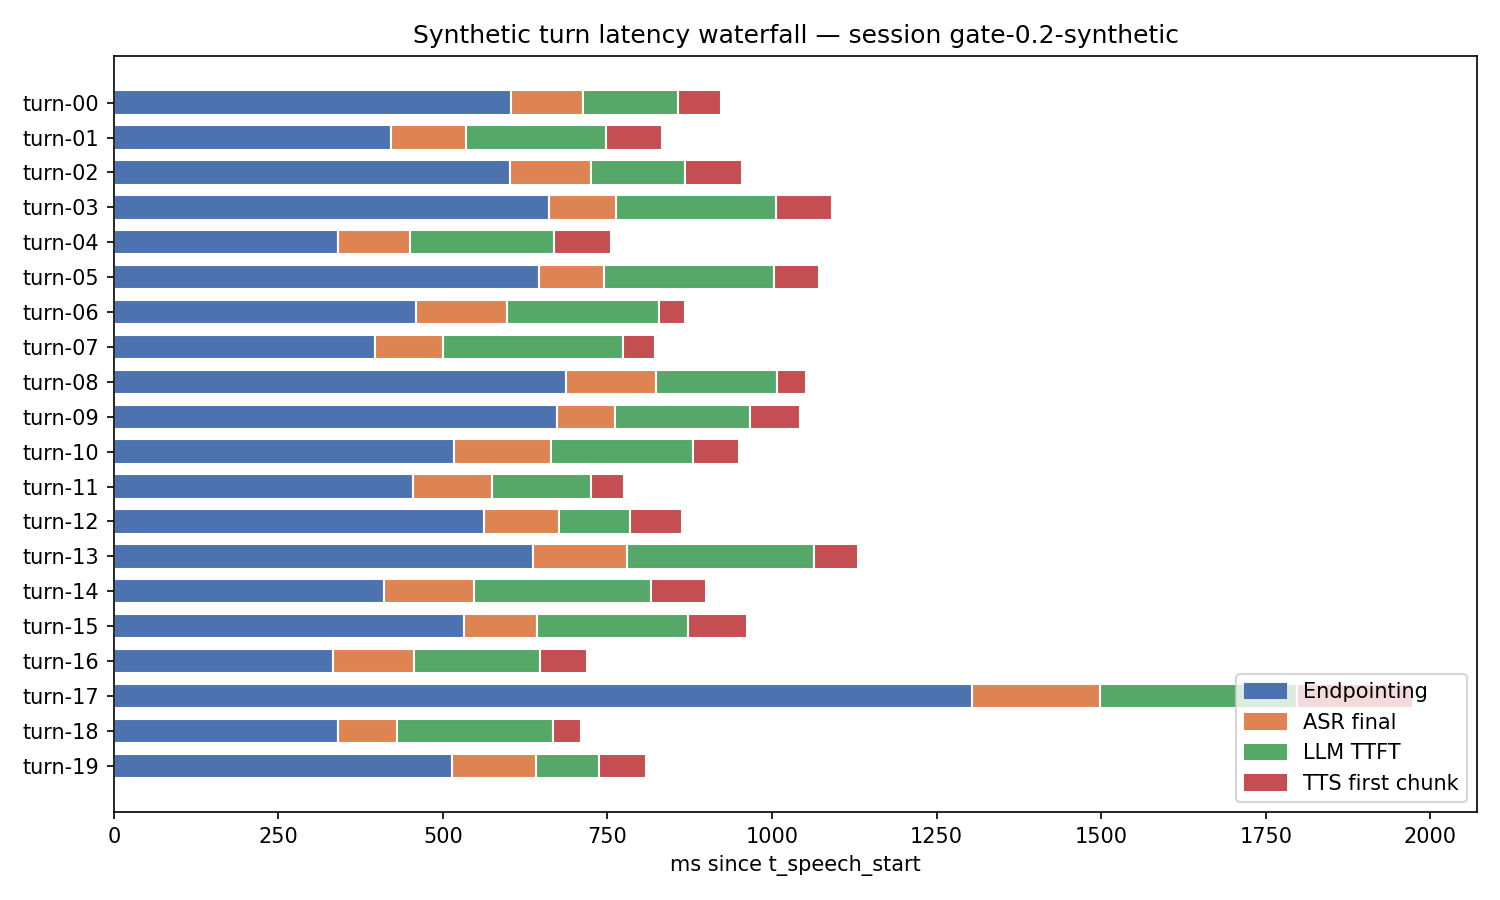
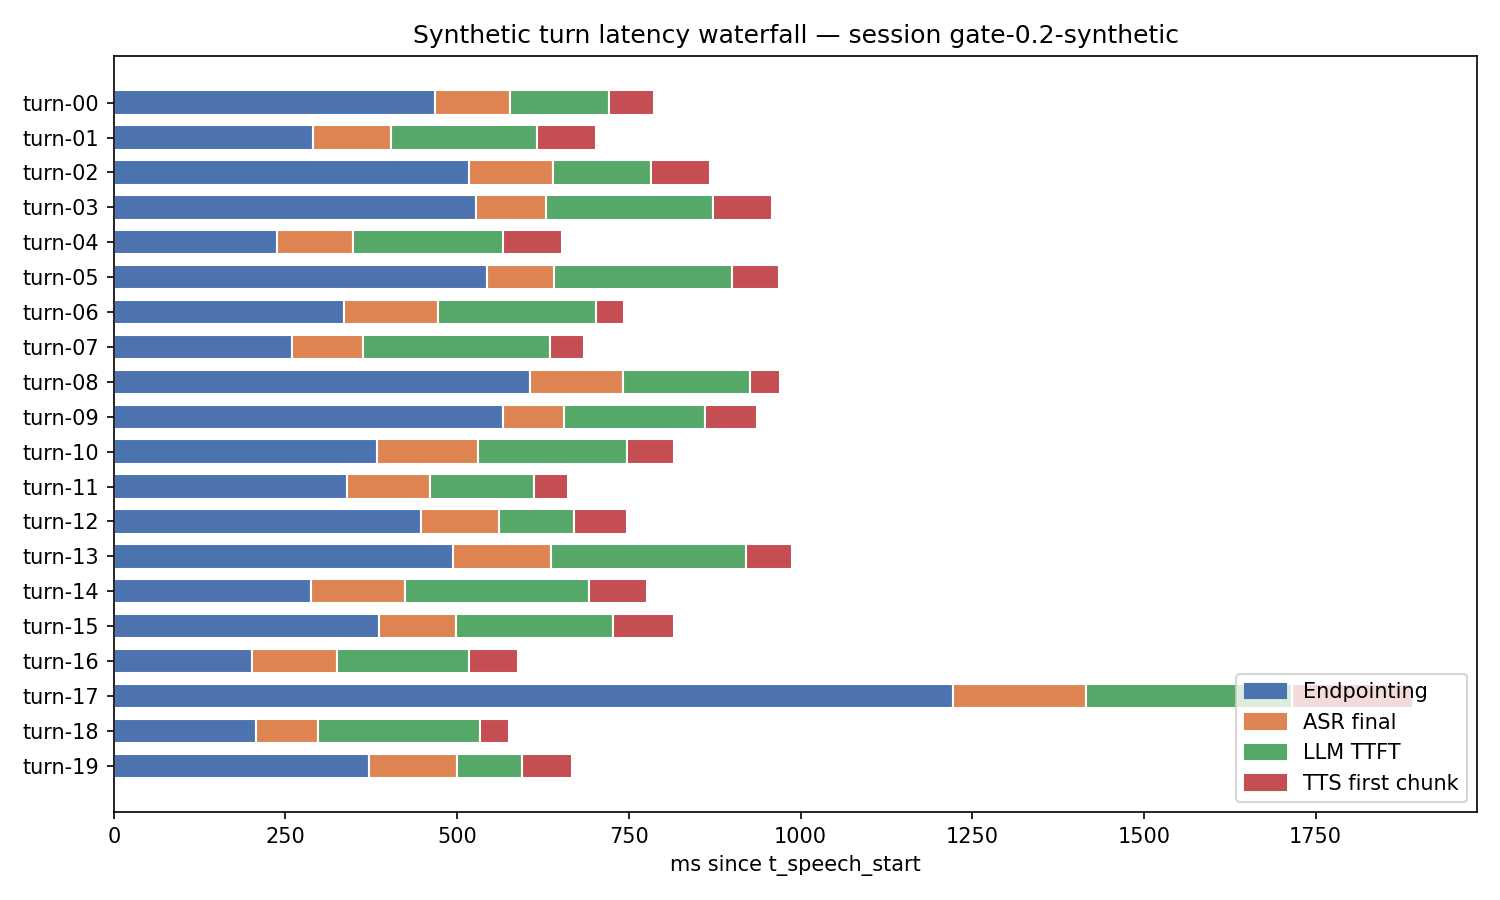
Phase 0.2: add Tracer.replay_session() for historical trace re-analysis
Reads an existing session JSONL and re-emits its spans (turn_id, stage, t)
in chronological order, matching a live Tracer.mark() call's shape. Needed
before Phase 6: lets significance/regression analysis run against
historical traces without re-running the pipeline that produced them.
Read-only, verified against traces/e2e_phase4_4.jsonl (700 spans, 100
turns x 7 stages, chronological, source file untouched).

diff --git a/src/tracing/tracer.py b/src/tracing/tracer.py
@@ -10,12 +10,25 @@ Usage:
 """
 
 import time
+from dataclasses import dataclass
 from pathlib import Path
-from typing import Optional
+from typing import Iterator, Optional
 
-from .trace import STAGE_FIELDS, TurnTrace
+from .trace import STAGE_FIELDS, TurnTrace, read_jsonl
 
 DEFAULT_TRACE_DIR = Path("traces")
+
+
+@dataclass
+class ReplaySpan:
+    """One stage mark, re-emitted from a historical trace file. Mirrors the
+    (stage, timestamp) shape of a live Tracer.mark() call, so downstream
+    analysis (Phase 6 stats, the dashboard) can consume a replayed session
+    the same way it would consume a live one."""
+
+    turn_id: str
+    stage: str
+    t: float
 
 
 class Tracer:
@@ -51,3 +64,22 @@ class Tracer:
         with open(self.path, "a", encoding="utf-8") as f:
             f.write(trace.to_json_line() + "\n")
         return trace
+
+    @staticmethod
+    def replay_session(jsonl_path: Path) -> Iterator[ReplaySpan]:
+        """Reads an existing session JSONL and re-emits its spans, in
+        STAGE_FIELDS order per turn, as an ordered stream of ReplaySpan
+        events -- the same (turn_id, stage, t) shape a live Tracer.mark()
+        call produces. Read-only: does not touch this Tracer's own state or
+        write anything.
+
+        Needed for Phase 6: re-running significance/regression analysis
+        against historical traces without re-running the pipeline that
+        produced them, and for the dashboard to step through an old session
+        the same way it would a live one.
+        """
+        for trace in read_jsonl(Path(jsonl_path)):
+            for stage in STAGE_FIELDS:
+                t = getattr(trace, stage)
+                if t is not None:
+                    yield ReplaySpan(turn_id=trace.turn_id, stage=stage, t=t)

diff --git a/src/tracing/__init__.py b/src/tracing/__init__.py
@@ -1,6 +1,6 @@
 from .clock import FrameClock, FrameTimestamp
 from .trace import STAGE_FIELDS, TurnTrace, read_jsonl
-from .tracer import Tracer
+from .tracer import ReplaySpan, Tracer
 
 __all__ = [
     "FrameClock",
@@ -8,5 +8,6 @@ __all__ = [
     "TurnTrace",
     "STAGE_FIELDS",
     "Tracer",
+    "ReplaySpan",
     "read_jsonl",
 ]
